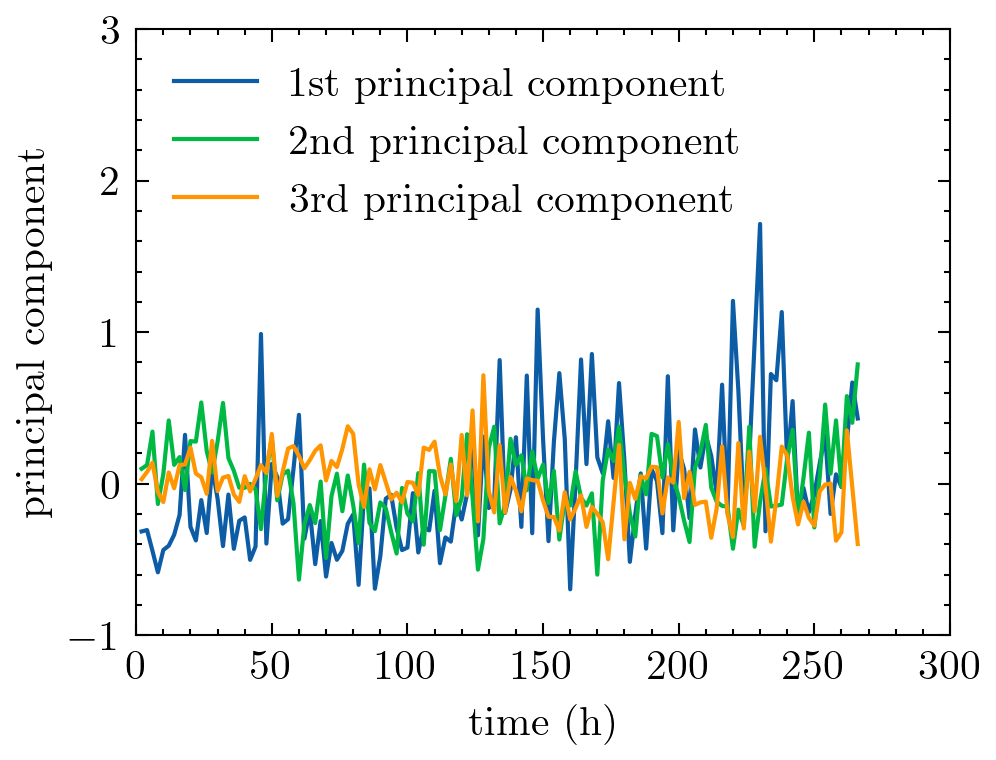
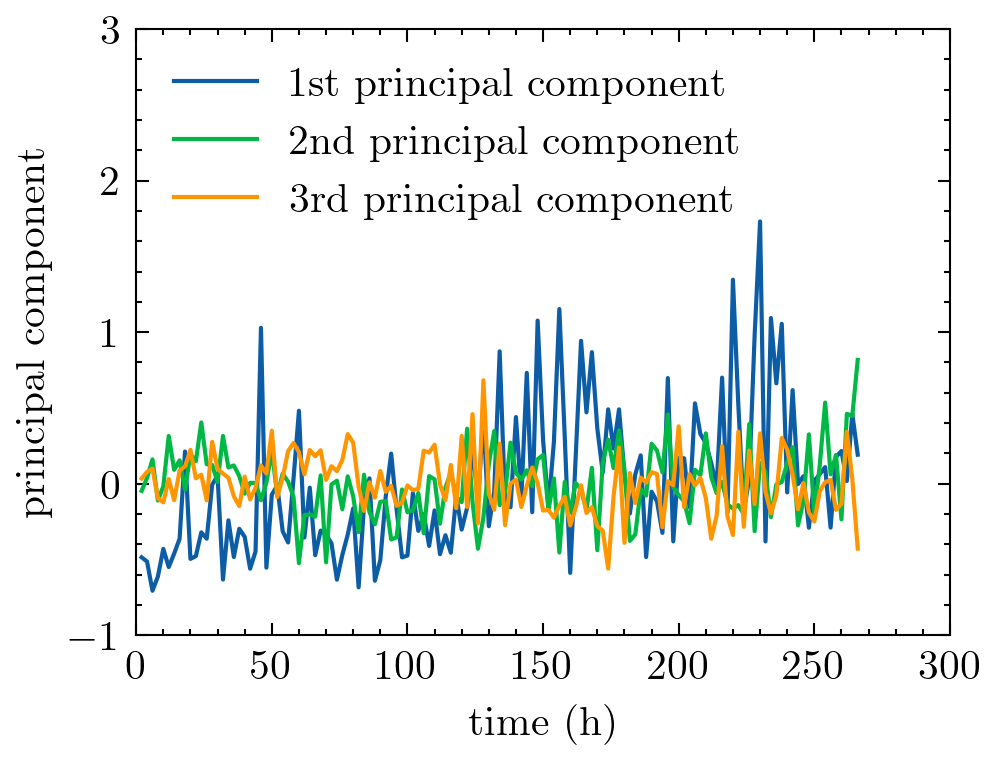
修复了案例D的问题（数据预处理）

Changed region(s): [[0.1245, 0.3934, 0.8715, 0.7868], [0.7159, 0.3632, 0.747, 0.3934]]

diff --git a/case_replication/D.py b/case_replication/D.py
@@ -33,6 +33,12 @@ class Vibrating_signal:
             self.sample_interval  # 每个采集周期的采样点数
         self.num_intervals = 133  # 采样周期数
 
+    def preprocess_data(self):
+        """
+        数据预处理，每个数据减去数据组的均值
+        """
+        self.signal = self.signal - np.mean(self.signal, axis=0)
+
     def time_domain_analysis(self):
         """
         时域分析
@@ -206,6 +212,8 @@ class Vibrating_signal:
 def main():
     print('>>初始化数据...')
     vibrating_signal = Vibrating_signal()
+    print('>>预处理数据...')
+    vibrating_signal.preprocess_data()
     print('-----------------------------')
     print('>>时域分析...')
     vibrating_signal.time_domain_analysis()
